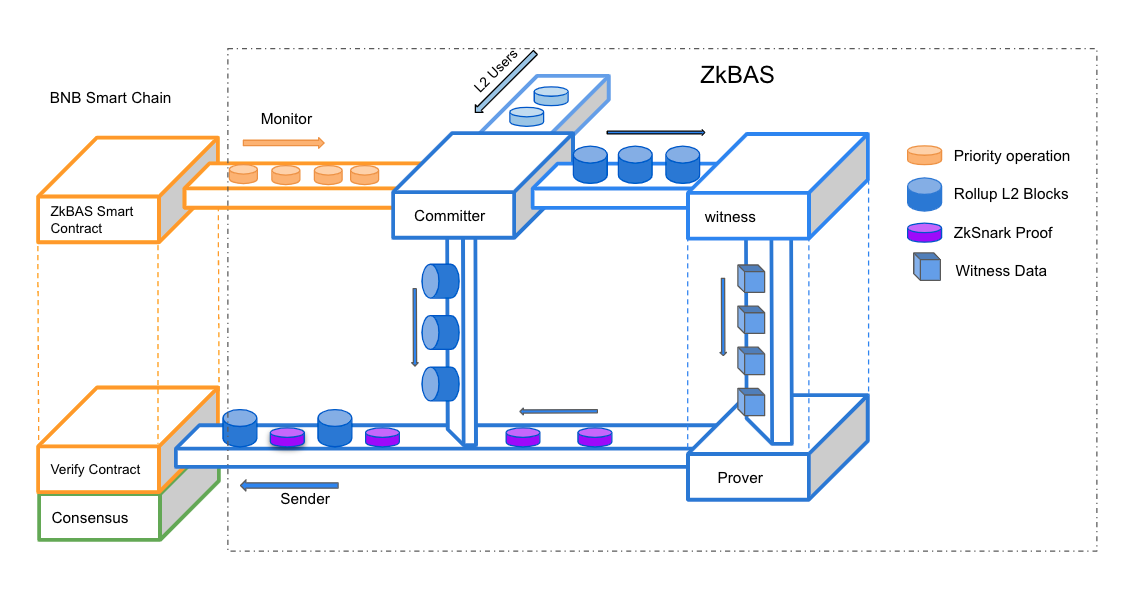
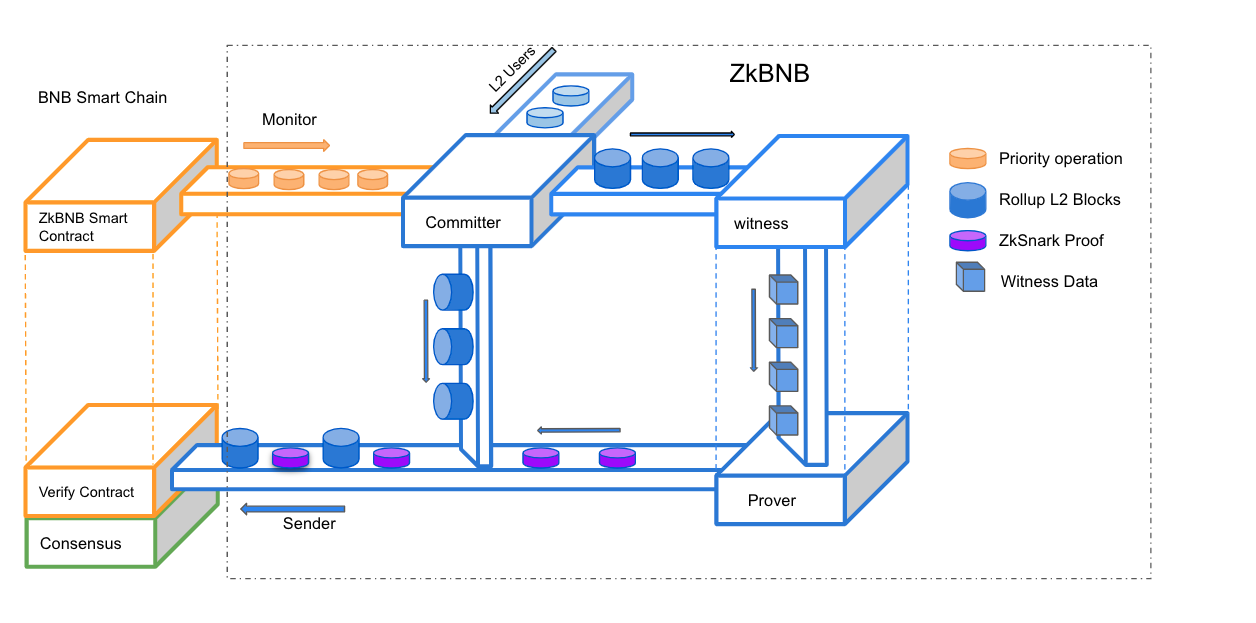
update diagram

Changed region(s): [[0.0, 0.06, 0.9451, 0.93], [0.1829, 0.9, 0.9146, 0.93], [0.0305, 0.15, 0.1524, 0.18]]

diff --git a/README.md b/README.md
@@ -1,12 +1,12 @@
-# ZkRollup BNB Application Side Chain
+# BNB ZkRollup
 
 ![banner](./docs/assets/banner.png)
 
 
-The ZkRollup BNB Application Side Chain(ZkBNB) is an infrastructure for developers that helps them to build large scale
+The BNB ZkRollup(ZkBNB) is an infrastructure for developers that helps them to build large scale
 BSC-based apps with higher throughput and much lower or even zero transaction fees. 
 
-ZkBNB is built on ZK Rollup architecture. ZkBNB bundle (or “roll-up”) hundreds of transactions off-chain and generates
+ZkBNB is built on ZK Rollup architecture. ZkBNB bundle (or "roll-up") hundreds of transactions off-chain and generates
 cryptographic proof. These proofs can come in the form of SNARKs (succinct non-interactive argument of knowledge) which 
 can prove the validity of every single transaction in the Rollup Block. It means all funds are held on the BSC, 
 while computation and storage are performed on BAS with less cost and fast speed.
@@ -26,7 +26,7 @@ ZkBNB achieves the following goals:
   are censored by ZkBNB.
 
 ZkBNB starts its development based on [Zecrey](https://github.com/bnb-chain/zecrey-legend), special thanks to
-[Zecrey](https://www.zecrey.com/) team.
+[Zecrey](https://www.zecrey.com/) team and [Nodereal](https://nodereal.io/) team for their contribution.
 
 ## Table of Content
 <!--ts-->
@@ -172,6 +172,6 @@ If you are looking for something interesting or if you have something in your mi
 ## Outlook
 We believe that zk-Rollup Sooner or later L2 The best of the track — This is a very cheap and safe first-class 
 L2 Expansion solutions. However, ZkBNB is application specific so far, this makes it difficult for developers to
-build custom dApp on that, we will introduce generic programmability in the future... 
+build custom dApp on that, we will introduce generic programability in the future... 
 
 
